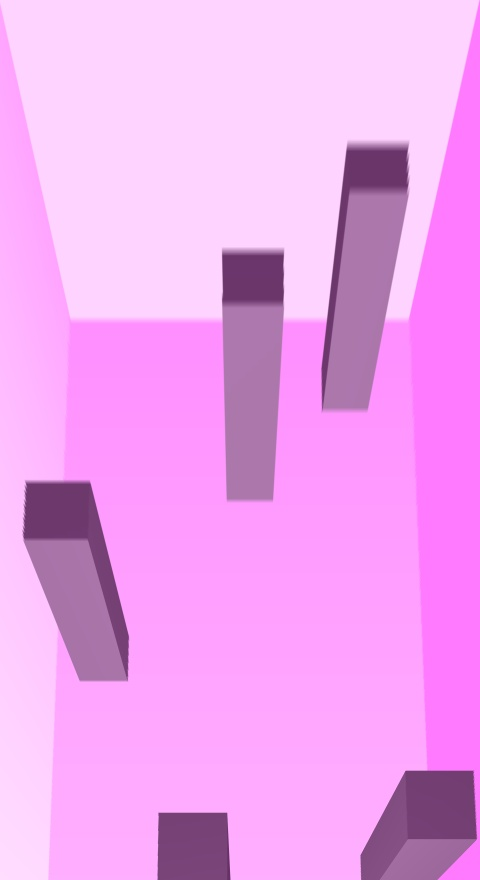
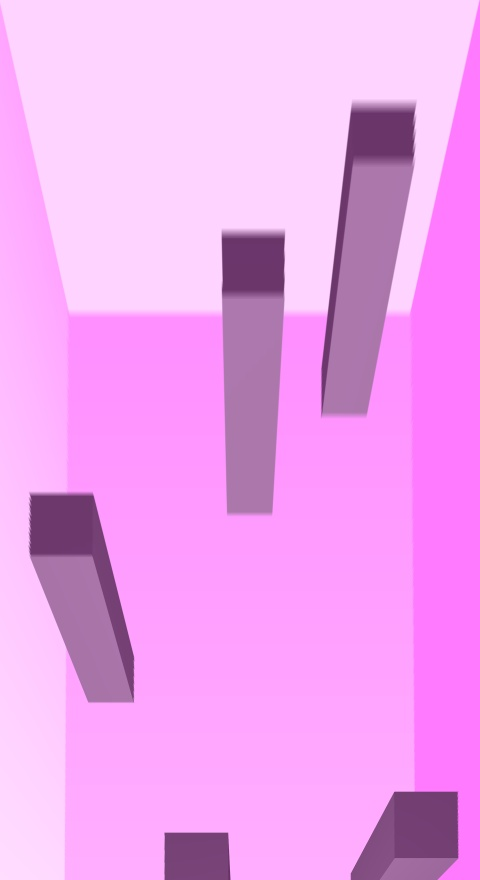
created helper functions

diff --git a/src/warp.py b/src/warp.py
@@ -1,0 +1,25 @@
+from typing import List
+import cv2
+import numpy as np
+
+# Implements perspective warp functions
+
+def warpTo(pts: List[List[float]], img: np.ndarray, resize_factor: float) -> np.ndarray:
+    # Returns a warped image to the four corners of that image's h/w
+
+    h, w, *_ = img.shape
+
+    M = cv2.getPerspectiveTransform(
+        np.float32(pts),
+        np.float32([
+        [0, 0], [w, 0], [0, h], [w, h]
+        ])
+    )
+
+    warped = cv2.warpPerspective(img, M, (w, h))
+
+    if resize_factor:
+        return cv2.resize(warped,  (w  // resize_factor,  h), interpolation = cv2.INTER_AREA)
+
+    return warped
+

diff --git a/src/poc.py b/src/poc.py
@@ -1,6 +1,5 @@
 import cv2
 import numpy as np
-from sympy import Point, Line, Segment
 
 img = cv2.imread("simulator_imgs/room_2.png")
 h, w, *_ = img.shape
@@ -19,17 +18,8 @@ def showImgs(img1, img2, img3):
     cv2.waitKey(0)
  
 pts1 = np.float32([
-    [782, 522-29], [1138, 522-29], [0, h-89], [w, h-89]
+    [782, 522-25], [1138, 522-25], [0, h-119], [w, h-119]
 ])
-
-pt1= Point(782, 522)
-pt2= Point(0, h)
-
-pt3= Point(1138, 522)
-pt4= Point(w, h)
-
-l1 = Line(pt1, pt2)
-l2 = Line(pt3, pt4)
 
 pts2 = np.float32([
     [0, 0], [w, 0], [0, h], [w, h]
